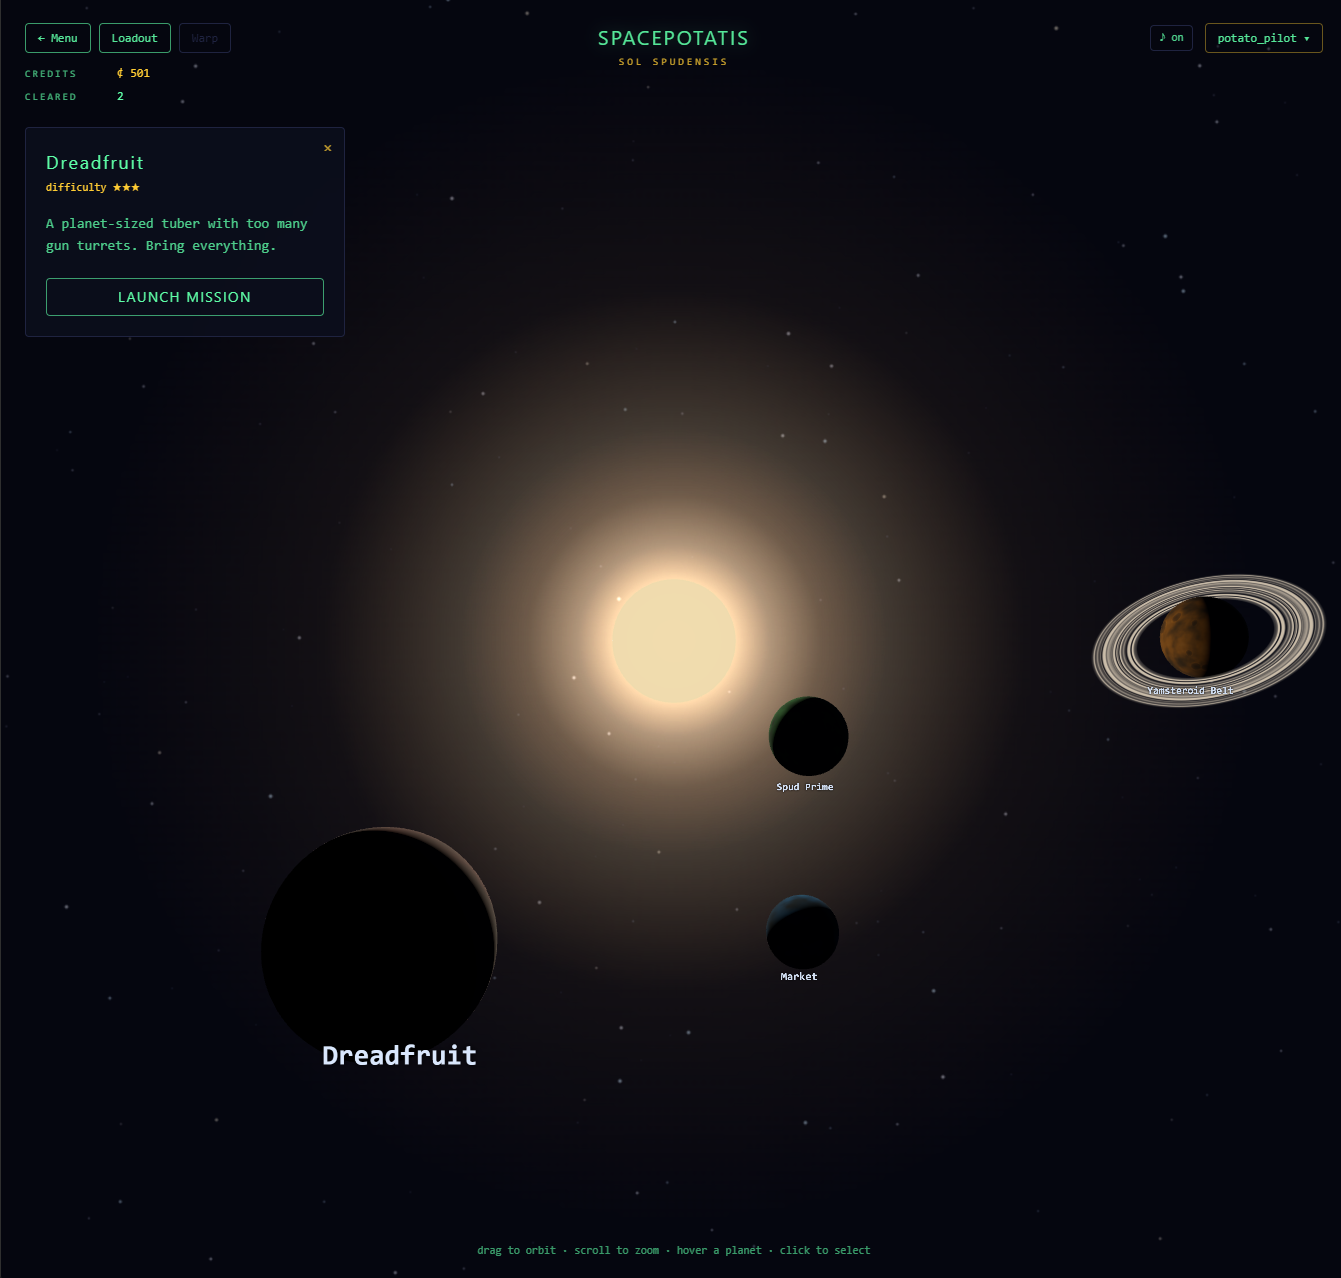
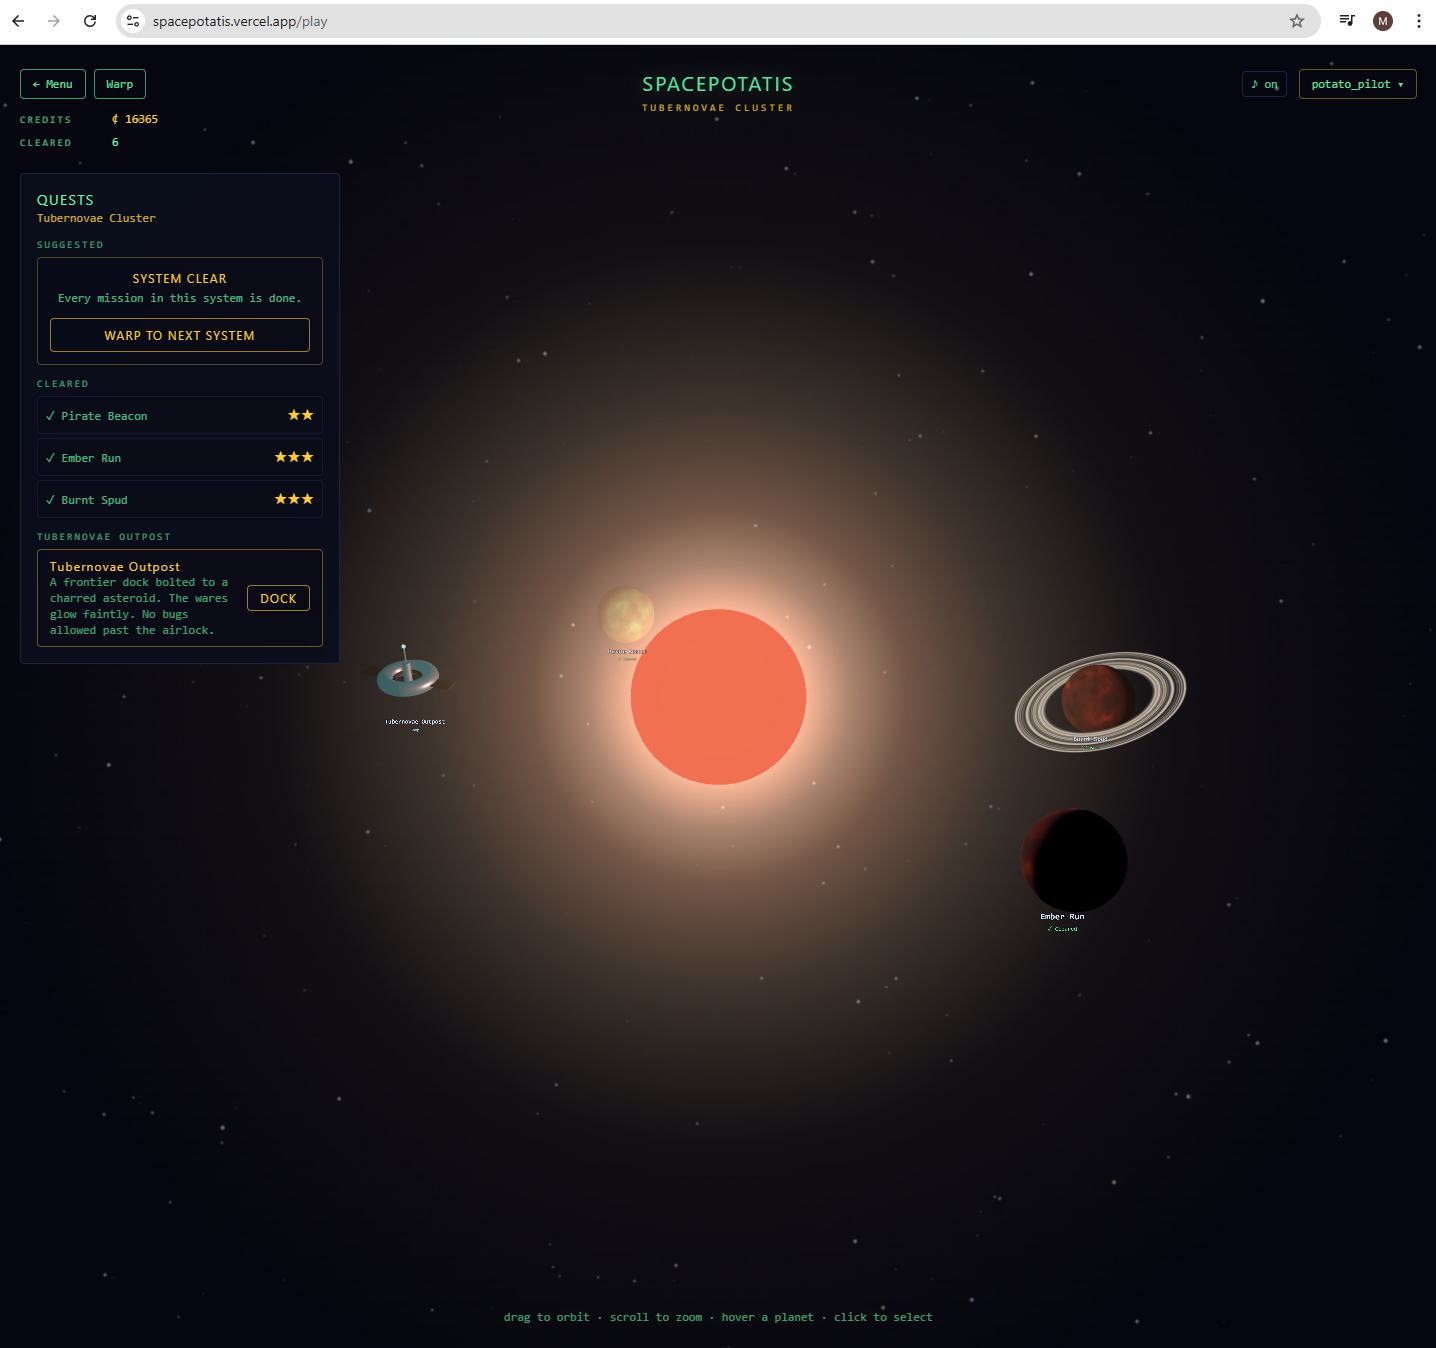
docs(readme): add screenshots and update captions to match
- Adds combat.png and replaces landing.png + galaxy.png with the
  versions the user picked (system-boot intro screen for landing, a
  fully-cleared Tubernovae Cluster for galaxy).
- Captions rewritten so they describe what's actually in the new shots.
- Story-log image dropped from the README (no story-log.png provided);
  the prose subsection stays.

diff --git a/README.md b/README.md
@@ -10,13 +10,13 @@ Welcome! Spacepotatis is a small browser game where you fly a tiny spaceship aro
 
 ## What it looks like
 
-The **main menu** is your front door. The slowly-spinning galaxy you see behind the title isn't a still image — it's the same 3D engine the game uses for the overworld, idling away as wallpaper. From this screen you sign in (or out — that's a signed-in player in the screenshot below), tap CONTINUE to drop straight back into your last solar system, or peek at the leaderboard to see how badly other potatoes have humbled you.
+The **front door** is a tiny system-boot sequence: a green terminal panel warms the reactors, verifies your pilot session, and only then hands you the actual menu. It's a few seconds of theatre at most, but it sets the tone — you are operating a slightly-too-old spaceship with cathode-ray sensibilities, and it would like you to wait while it remembers how to be a spaceship.
 
-![Main menu signed in as potato_pilot, showing the SPACEPOTATIS title over a slowly-spinning galaxy backdrop with CONTINUE, Leaderboard, and sign-out buttons](docs/screenshots/landing.png)
+![Boot sequence on the landing page — a terminal-style "SPACEPOTATIS / SYSTEM BOOT" panel with checklist items "warm reactors" (✓) and "verify pilot session", overlaid on a faded galaxy backdrop](docs/screenshots/landing.png)
 
-The **galaxy view** is where you decide what to do next. You're looking at an actual 3D solar system — drag with the mouse to spin the camera around, scroll the wheel to zoom, click a planet to open its mission panel. The HUD keeps the bookkeeping out of the way: top-left for the Menu and Warp buttons, just under that your credits and missions cleared, top-right for the audio toggle and your callsign. (HUD is short for "heads-up display", a term arcades and aircraft folk use for "stuff drawn on top of the world to tell you things you need to know without taking your eyes off the action".) The example below is the **Tubernovae Cluster**, the second system you'll visit, where things start getting noticeably toastier.
+The **galaxy view** is where you decide what to do next. You're looking at an actual 3D solar system — drag with the mouse to spin the camera around, scroll the wheel to zoom, click a planet to open its mission panel. The HUD keeps the bookkeeping out of the way: top-left for the Menu and Warp buttons, just under that your credits and missions cleared, top-right for the audio toggle and your callsign. (HUD is short for "heads-up display", a term arcades and aircraft folk use for "stuff drawn on top of the world to tell you things you need to know without taking your eyes off the action".) The shot below is the **Tubernovae Cluster**, the second system you'll visit, snapped at the moment everything in it has been cleared and the game is gently prodding you toward the next system.
 
-![Galaxy view of the Tubernovae Cluster — a red sun ringed by Burnt Spud (locked), Pirate Beacon (cleared), Ember Hut, and the Tubernovae Outpost shop. The quests panel on the left suggests "Ember Run" as the next mission](docs/screenshots/galaxy.png)
+![Galaxy view of a fully-cleared Tubernovae Cluster — the quests panel reads "SYSTEM CLEAR" with a "WARP TO NEXT SYSTEM" button, and Pirate Beacon, Ember Hut, and Burnt Spud are all checked off below it. The Tubernovae Outpost shop sits docked on the left](docs/screenshots/galaxy.png)
 
 ## Music
 
@@ -72,8 +72,6 @@ The same four cues are reused everywhere a permanent item changes hands, so once
 ### The Story log
 
 If you missed a beat — or you just want to hear Grandma tell it again — open the **user menu** in the top-right of the galaxy view and pick **Story log**. Every storyline entry you've already unlocked sits in here, ready to replay with its music and voiceover. Entries you haven't reached stay hidden so the next chapter doesn't get spoiled. The log has its own music bed that ducks the menu music while you're browsing it, and opening a replay doesn't restart that bed — the music plays continuously across the list and any replay you open from it. Each entry also shows a **written synopsis** under its title; Grandma's spoken narration is short and read-aloud-friendly, while the synopsis is the deeper written version with room for lore that wouldn't fit comfortably in spoken text.
-
-![Story log modal showing replayable entries: The Great Potato Awakening, Spud Prime Briefing, Yamsteroid Belt Briefing, and Dreadfruit Briefing — each with a REPLAY button and a multi-paragraph written synopsis under the title](docs/screenshots/story-log.png)
 
 ### How the audio is put together
 
